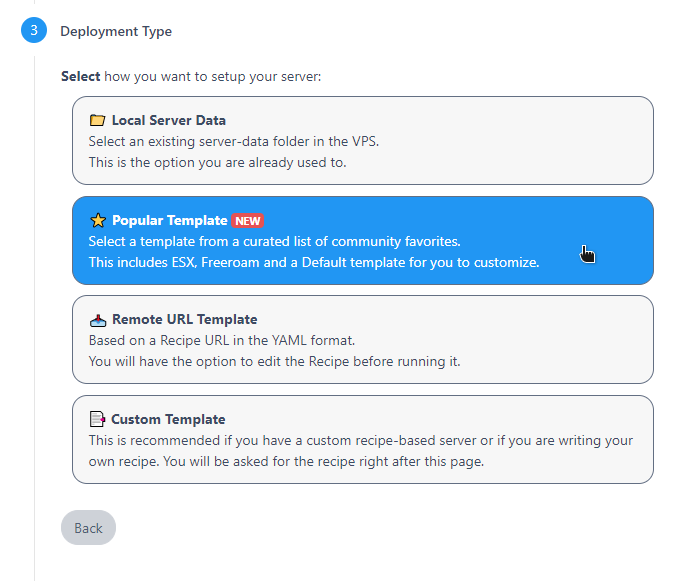
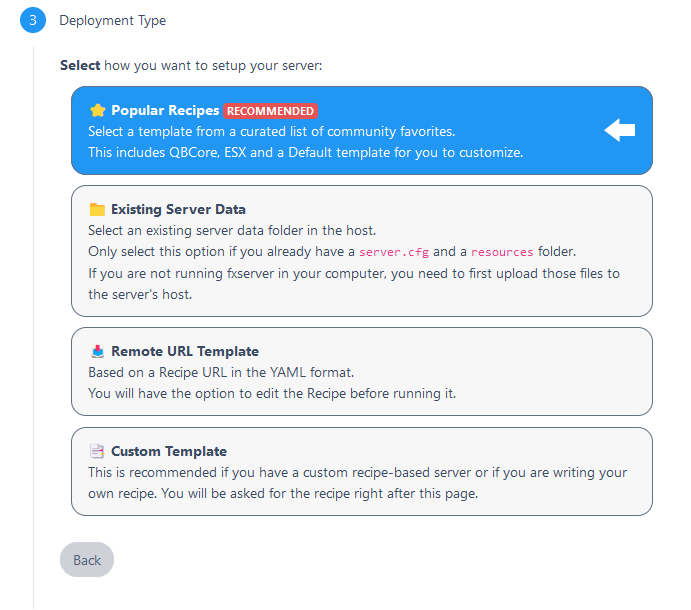
Update txAdmin guide on setting up a server
Updates some of the screenshots for more recent ones and changes
server.zip's default link to server.7z including the screenshot.

Tell the user how to extract 7z files

On the txAdmin server setup guide, let the user know they need a file archiver
to extract 7z files. Also updates the vanilla guide to contain download
links to said software.

diff --git a/content/docs/server-manual/setting-up-a-server-txadmin.md b/content/docs/server-manual/setting-up-a-server-txadmin.md
@@ -12,7 +12,7 @@ description: >
 1. Go to the [Windows server build listing][windows-artifacts] ('artifacts' listing, as in 'build artifacts').
 2. Download the latest recommended build.<br>
    ![pic](/server-setup/windows-step-2.png)
-3. Open the `server.zip` you just downloaded.<br>
+3. Open the `server.7z` you just downloaded. Use any third-party archiving tool (such as [7-Zip][7zip] or [WinRAR][winrar]) to open the `.7z` file. <br>
    ![pic](/server-setup/windows-step-3.png)
 4. Extract it somewhere you want to store it. We'll pick `C:\FXServer\server`.<br>
    ![pic](/server-setup/windows-step-4a.png)<br>
@@ -32,7 +32,7 @@ description: >
 5. Click 'Next'.<br>
    ![pic](/server-setup/windows-step2-5.png)
 6. Type a name for your server and click 'Next'.
-7. Select to use a 'Popular Template'.<br>
+7. Select 'Popular Recipes'.<br>
    ![pic](/server-setup/windows-step2-7.png)
 8. Pick the 'CFX Default' template for now. Other templates may exist, but some will require a database server.<br>
    ![pic](/server-setup/windows-step2-8.png)
@@ -53,3 +53,6 @@ description: >
 [server-data]: https://github.com/citizenfx/cfx-server-data
 
 [vcredist]: https://aka.ms/vs/16/release/VC_redist.x64.exe
+
+[winrar]: https://www.rarlab.com/download.htm
+[7zip]: https://www.7-zip.org/download.html

diff --git a/content/docs/server-manual/setting-up-a-server-vanilla.md b/content/docs/server-manual/setting-up-a-server-vanilla.md
@@ -17,7 +17,7 @@ description: >
 1. Create a new directory (for example `C:\FXServer\server`), this will be used for the server binaries.
 2. Download the current recommended `master` branch build for Windows from the [Windows server build listing][windows-artifacts].
 3. Extract the build into the directory previously created.
-    * 3b. Use any third-party archiving tool (such as WinRAR or 7-Zip) to open the `.7z` file.
+    * 3b. Use any third-party archiving tool (such as [WinRAR][winrar] or [7-Zip][7zip]) to open the `.7z` file.
 4. Clone [cfx-server-data][server-data] in a new folder outside of your server binaries folder, for example, `C:\FXServer\server-data`. 
     * 4b. `git clone https://github.com/citizenfx/cfx-server-data.git server-data` *(To type this command you need to open a command prompt, press `Win + R`, once the run dialog shows type `cmd` and hit enter, remember to switch directories to the directory you plan to clone to by typing `cd C:\FXServer`.)*
   
